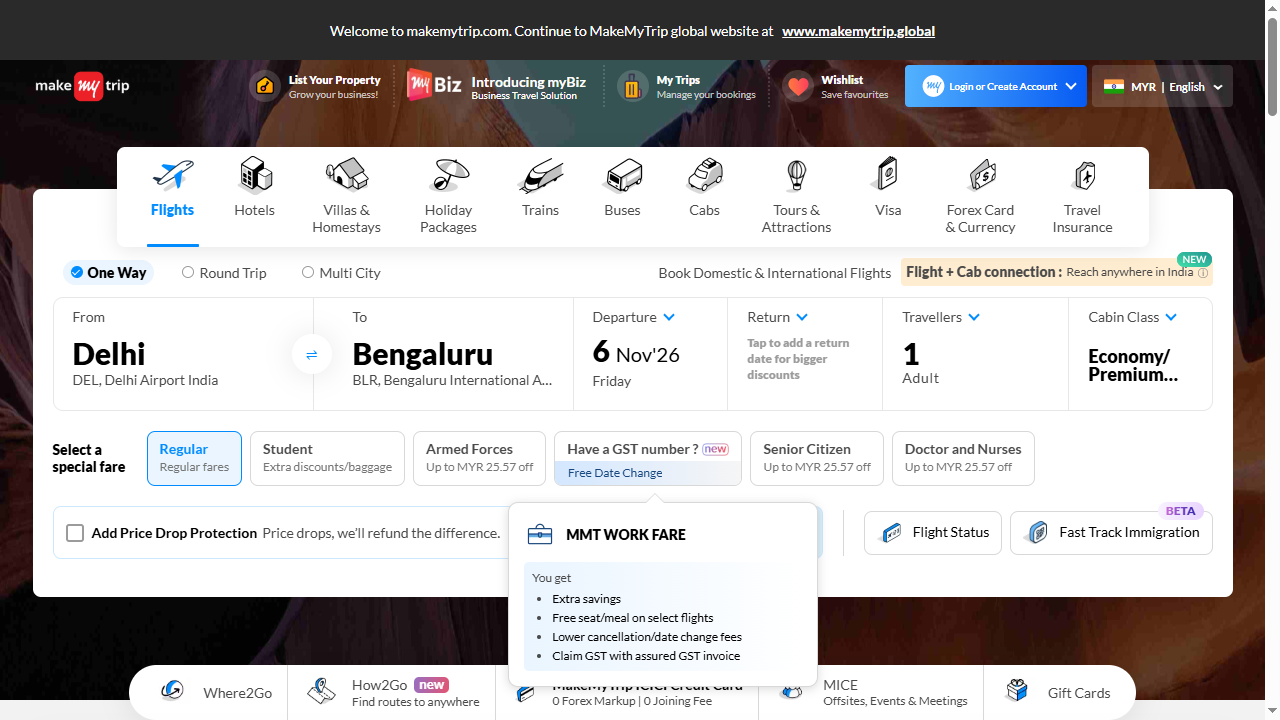
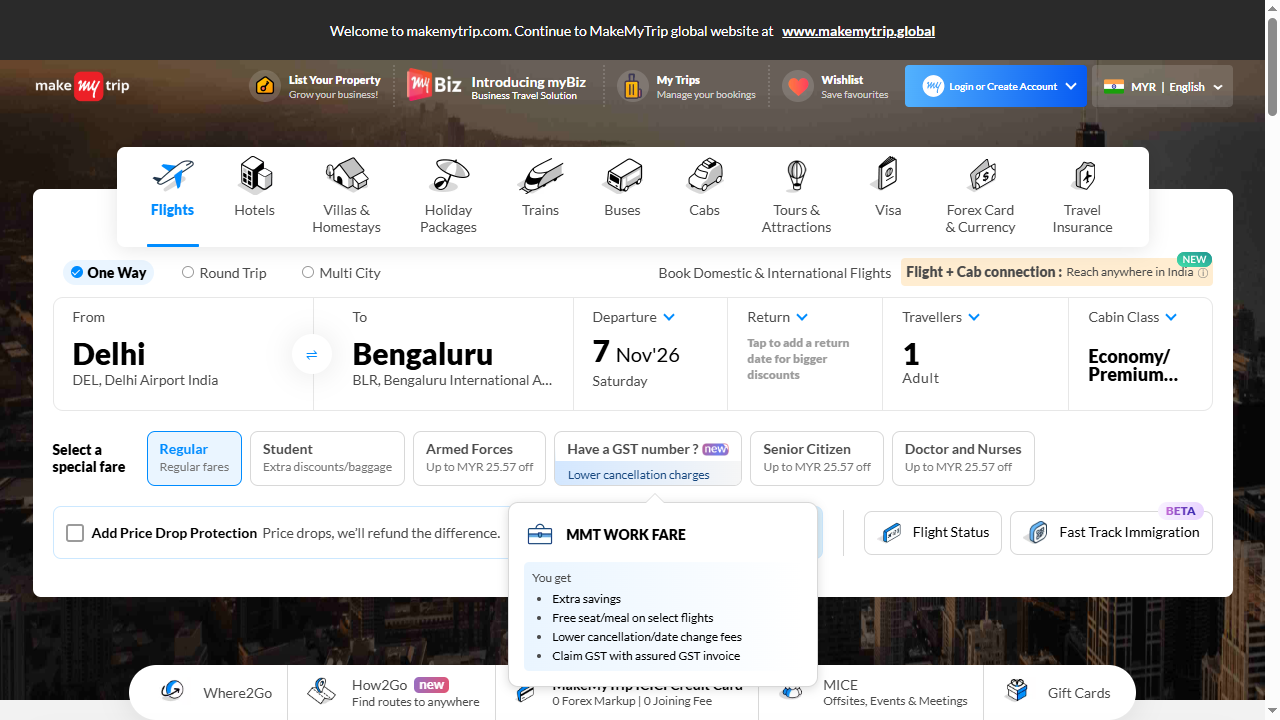
full Assignment 0611

diff --git a/tests/officeWork/assignment_08.spec.ts b/tests/officeWork/assignment_08.spec.ts
@@ -1,0 +1,79 @@
+import { test, expect } from '@playwright/test';
+
+// Hooks
+test.beforeEach(async ({ page }) => {
+    await page.goto('https://demowebshop.tricentis.com/');
+});
+
+test.afterEach(async ({ page }, testInfo) => {
+    if (testInfo.status === 'failed') {
+        await page.screenshot({ path: 'screenshots/failure.png', fullPage: true });
+    }
+});
+
+test('Demo Web Shop Complete User Journey', async ({ page, context }) => {
+    // Event Listeners
+    page.on('console', msg => console.log('Console message:', msg.text()));
+    page.on('pageerror', err => console.log('Page error:', err.message));
+    page.on('requestfailed', req => console.log('Failed request:', req.url()));
+
+    // Locators & Web Elements
+    await page.locator('.ico-register').click();
+    await page.locator('#gender-male').check();
+    await page.locator('#FirstName').fill('John');
+    await page.locator('#LastName').fill('Doe');
+
+    const email = 'john' + Date.now() + '@test.com';
+    await page.locator('#Email').fill(email);
+    await page.locator('#Password').fill('Password123');
+    await page.locator('#ConfirmPassword').fill('Password123');
+    await page.locator('#register-button').click();
+
+    // Assertions
+    await expect(page.locator('.result')).toHaveText('Your registration completed');
+    await expect(page.locator('.header-links .account')).toHaveText(email);
+
+    // Mouse Actions / Mouse Hover Actions
+    await page.locator('.top-menu a[href="/computers"]').hover();
+    await page.locator('.top-menu a[href="/desktops"]').click();
+
+    // Dropdowns / Dropdown Handling
+    await page.locator('#products-orderby').selectOption('Price: Low to High');
+
+    await page.getByText('Build your own cheap computer').click();
+    await page.locator('#add-to-cart-button-72').click();
+
+    await expect(page.locator('#bar-notification')).toBeVisible();
+    await expect(page.locator('.cart-qty')).toHaveText('(1)');
+
+    // Screenshots
+    await page.screenshot({ path: 'screenshots/full_page.png', fullPage: true });
+    await page.locator('#topcartlink').screenshot({ path: 'screenshots/cart_section.png' });
+
+    // Cart Validation
+    await page.locator('#topcartlink').click();
+    await expect(page.locator('.product-name')).toHaveText('Build your own cheap computer');
+    await expect(page.locator('.qty-input')).toHaveValue('1');
+
+    // Multi-Tab Handling
+    const newTab = await context.newPage();
+    await newTab.goto('https://www.w3schools.com/html/tryit.asp?filename=tryhtml_iframe');
+
+    // Frames / Frame Handling
+    const innerFrame = newTab.frameLocator('#iframeResult').frameLocator('iframe');
+    const heading = innerFrame.locator('h1');
+
+    console.log('Iframe Heading:', await heading.textContent());
+    await expect(heading).toBeVisible();
+    await newTab.screenshot({ path: 'screenshots/iframe_screenshot.png' });
+
+    await newTab.close();
+
+    // Logout Validation
+    await page.bringToFront();
+    await page.locator('.ico-logout').click();
+    await expect(page.locator('.ico-login')).toBeVisible();
+});
+
+
+
